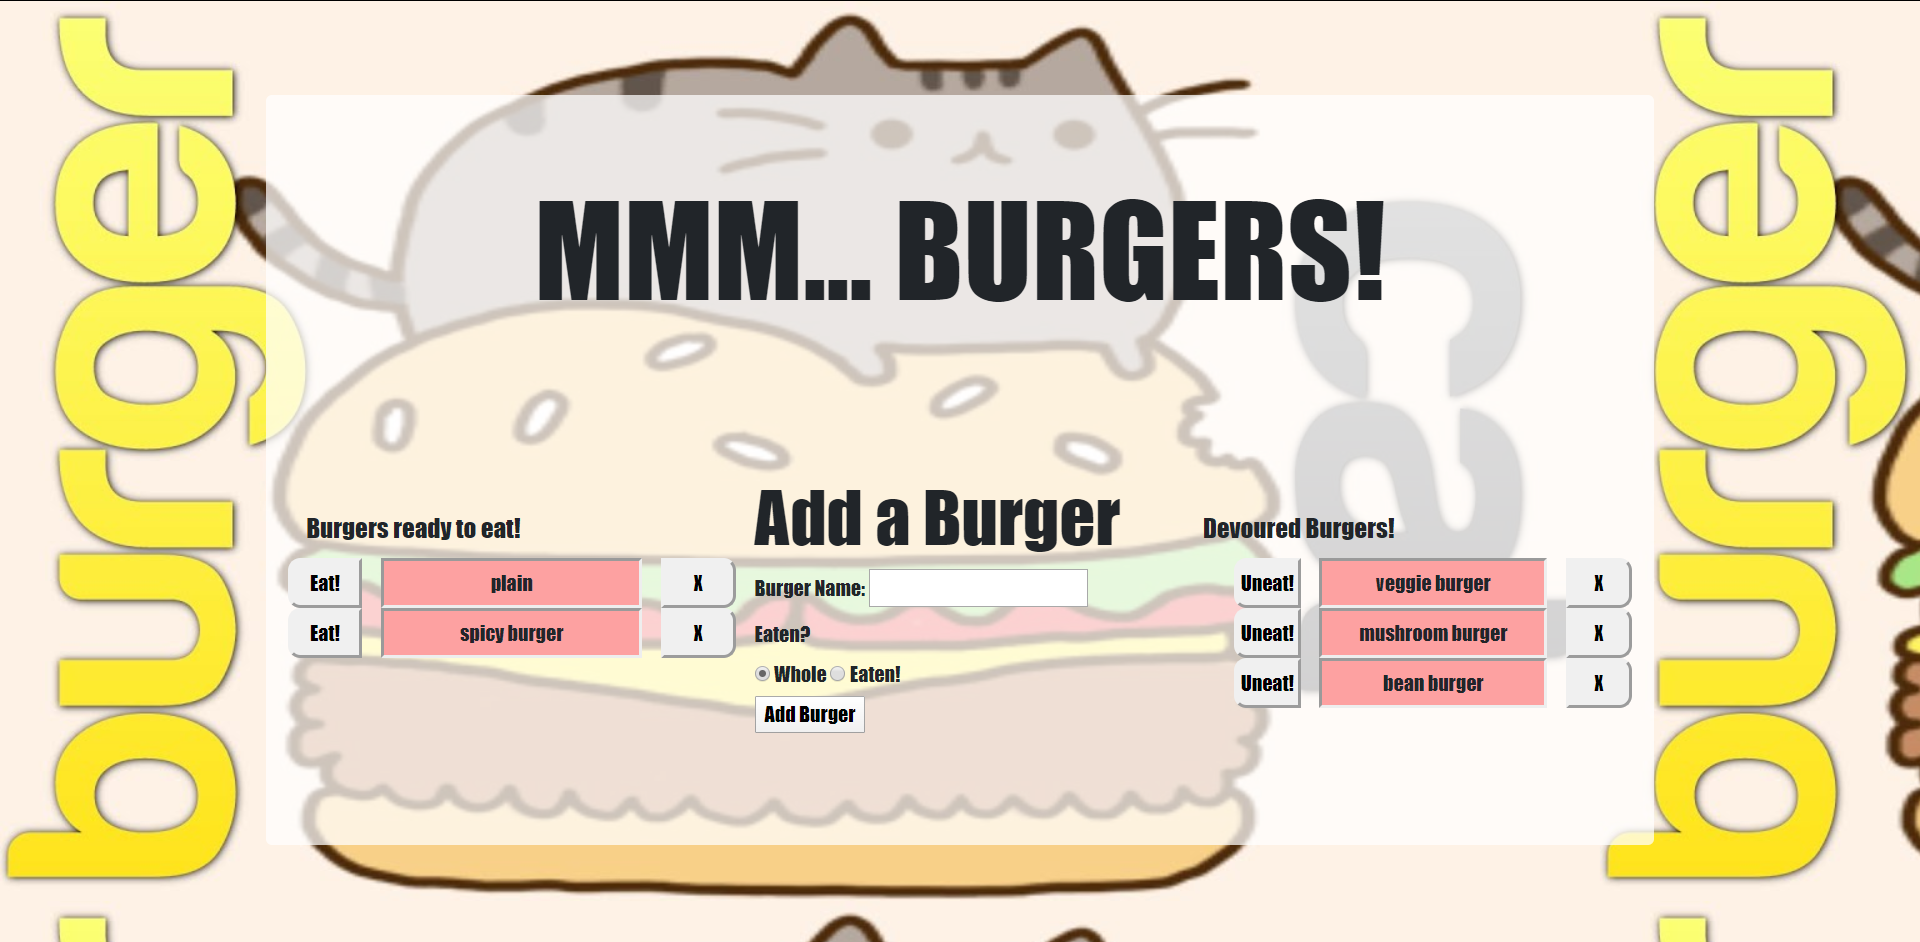
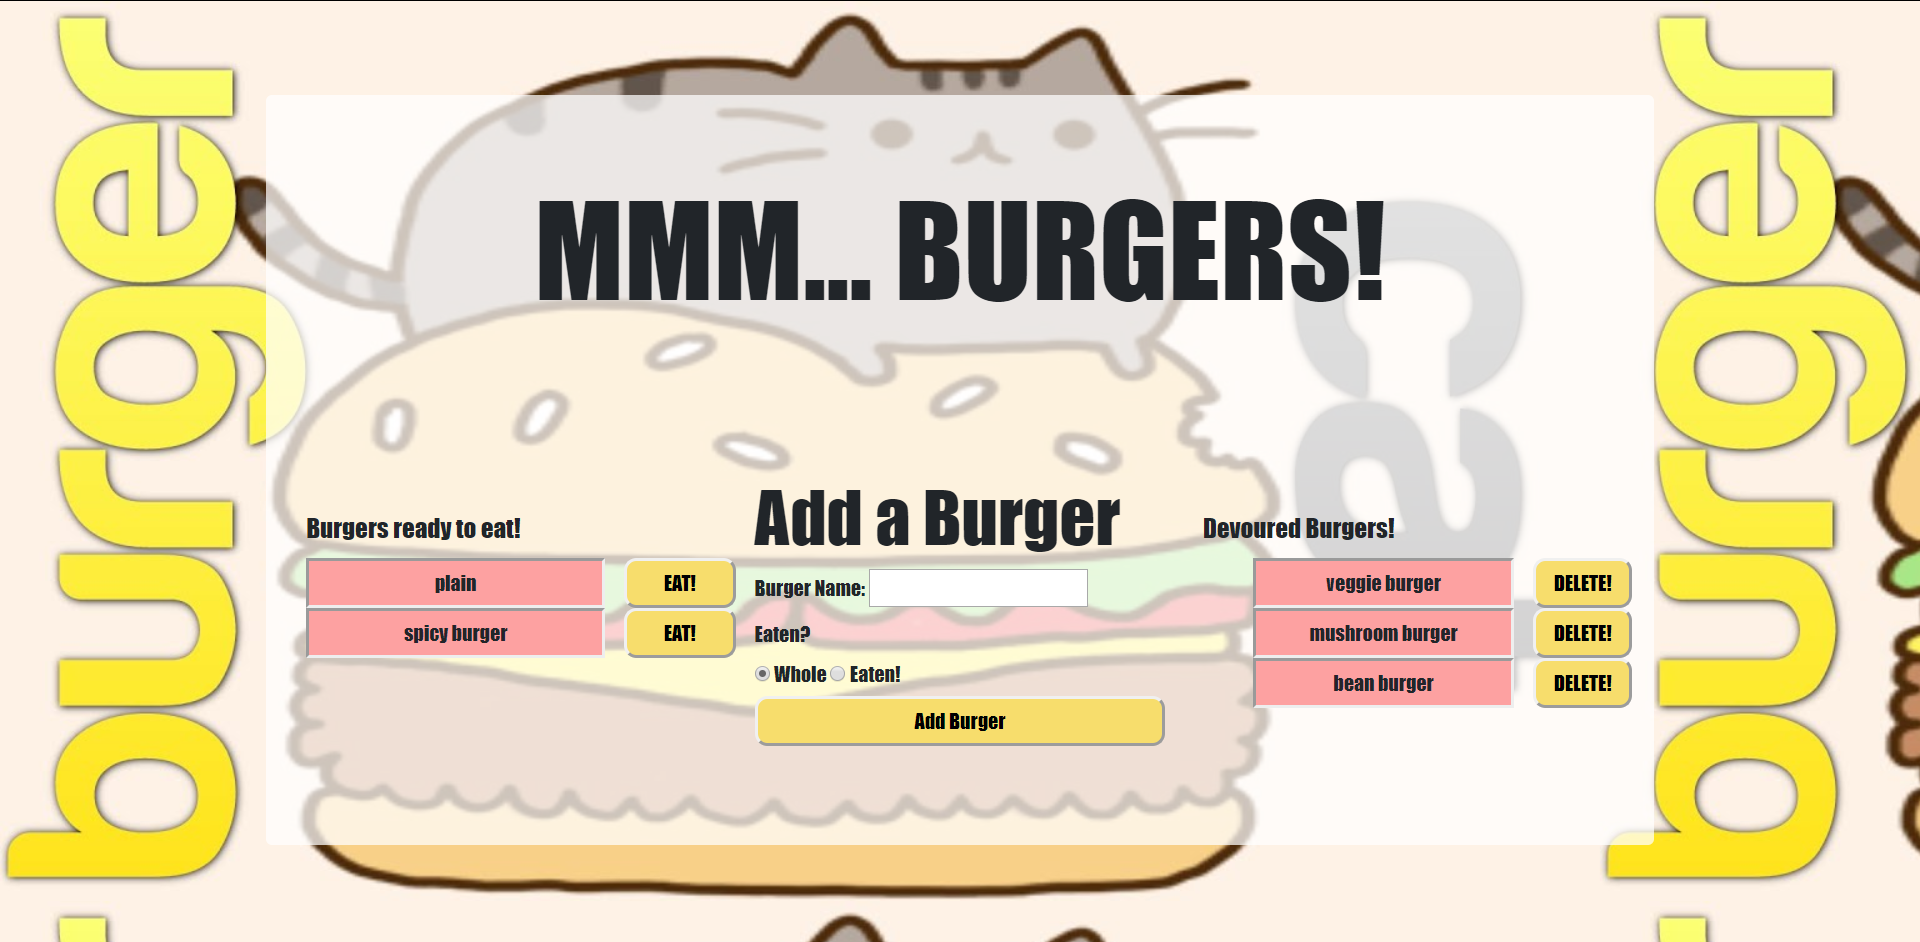
Deployed, everything is working, readme updated

Changed region(s): [[0.375, 0.5849, 0.875, 0.8004], [0.125, 0.5849, 0.4062, 0.7081]]

diff --git a/public/assets/css/style.css b/public/assets/css/style.css
@@ -47,9 +47,9 @@ li {
   /* margin: 30px auto; */
 }
 
-.change-eat{
-  border-top-left-radius: 10px ;
-  border-bottom-left-radius: 10px ;
+/* .change-eat{
+  border-top-right-radius: 10px ;
+  border-bottom-right-radius: 10px ;
   height: 40px;
   width: 100%;
   display: flex;
@@ -65,6 +65,17 @@ li {
   display: flex;
   justify-content: center;
   
+} */
+
+button {
+  background-color: rgb(247, 221, 108);
+  border-radius: 10px ;
+  height: 40px;
+  width: 100%;
+  margin: auto;
+  display: flex;
+  justify-content: center;
+
 }
 
 .jumbotron {

diff --git a/README.md b/README.md
@@ -1,6 +1,10 @@
 # Dats Da Burger
 
+## Deployed Link
+https://dats-da-burger.herokuapp.com/
+
 ![Screenshot](./public/assets/images/Burger_Screenshot.png)
 
 ## Discription
-This application is a burger counter to practice MySQL, Heroku, JawsDB, Node, Express, Handlebars and a homemade ORM
+This application is a burger counter using MySQL, Heroku, JawsDB, Node, Express, Handlebars and a homemade ORM
+
